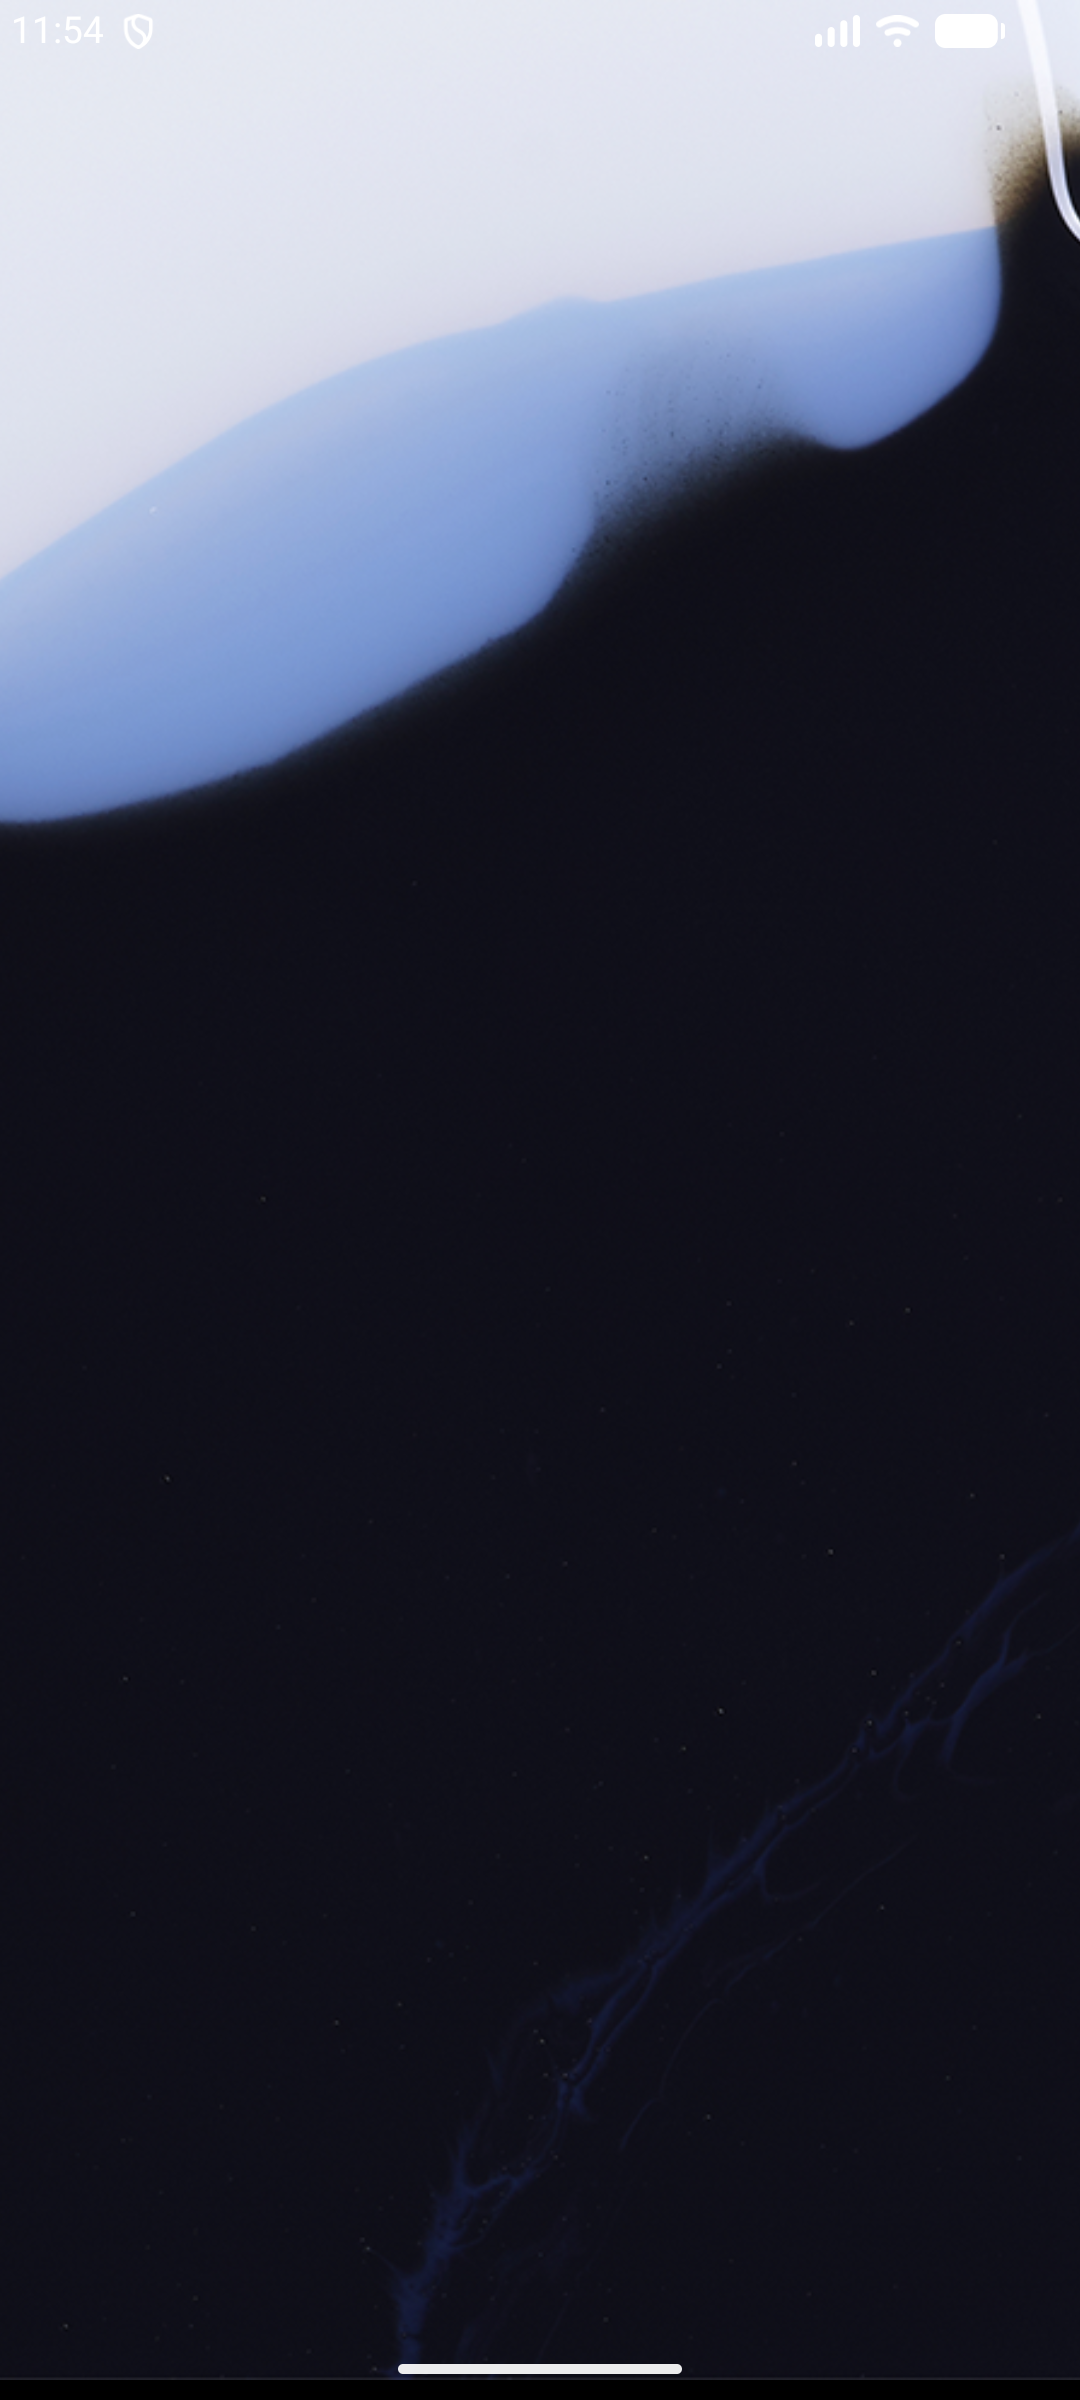
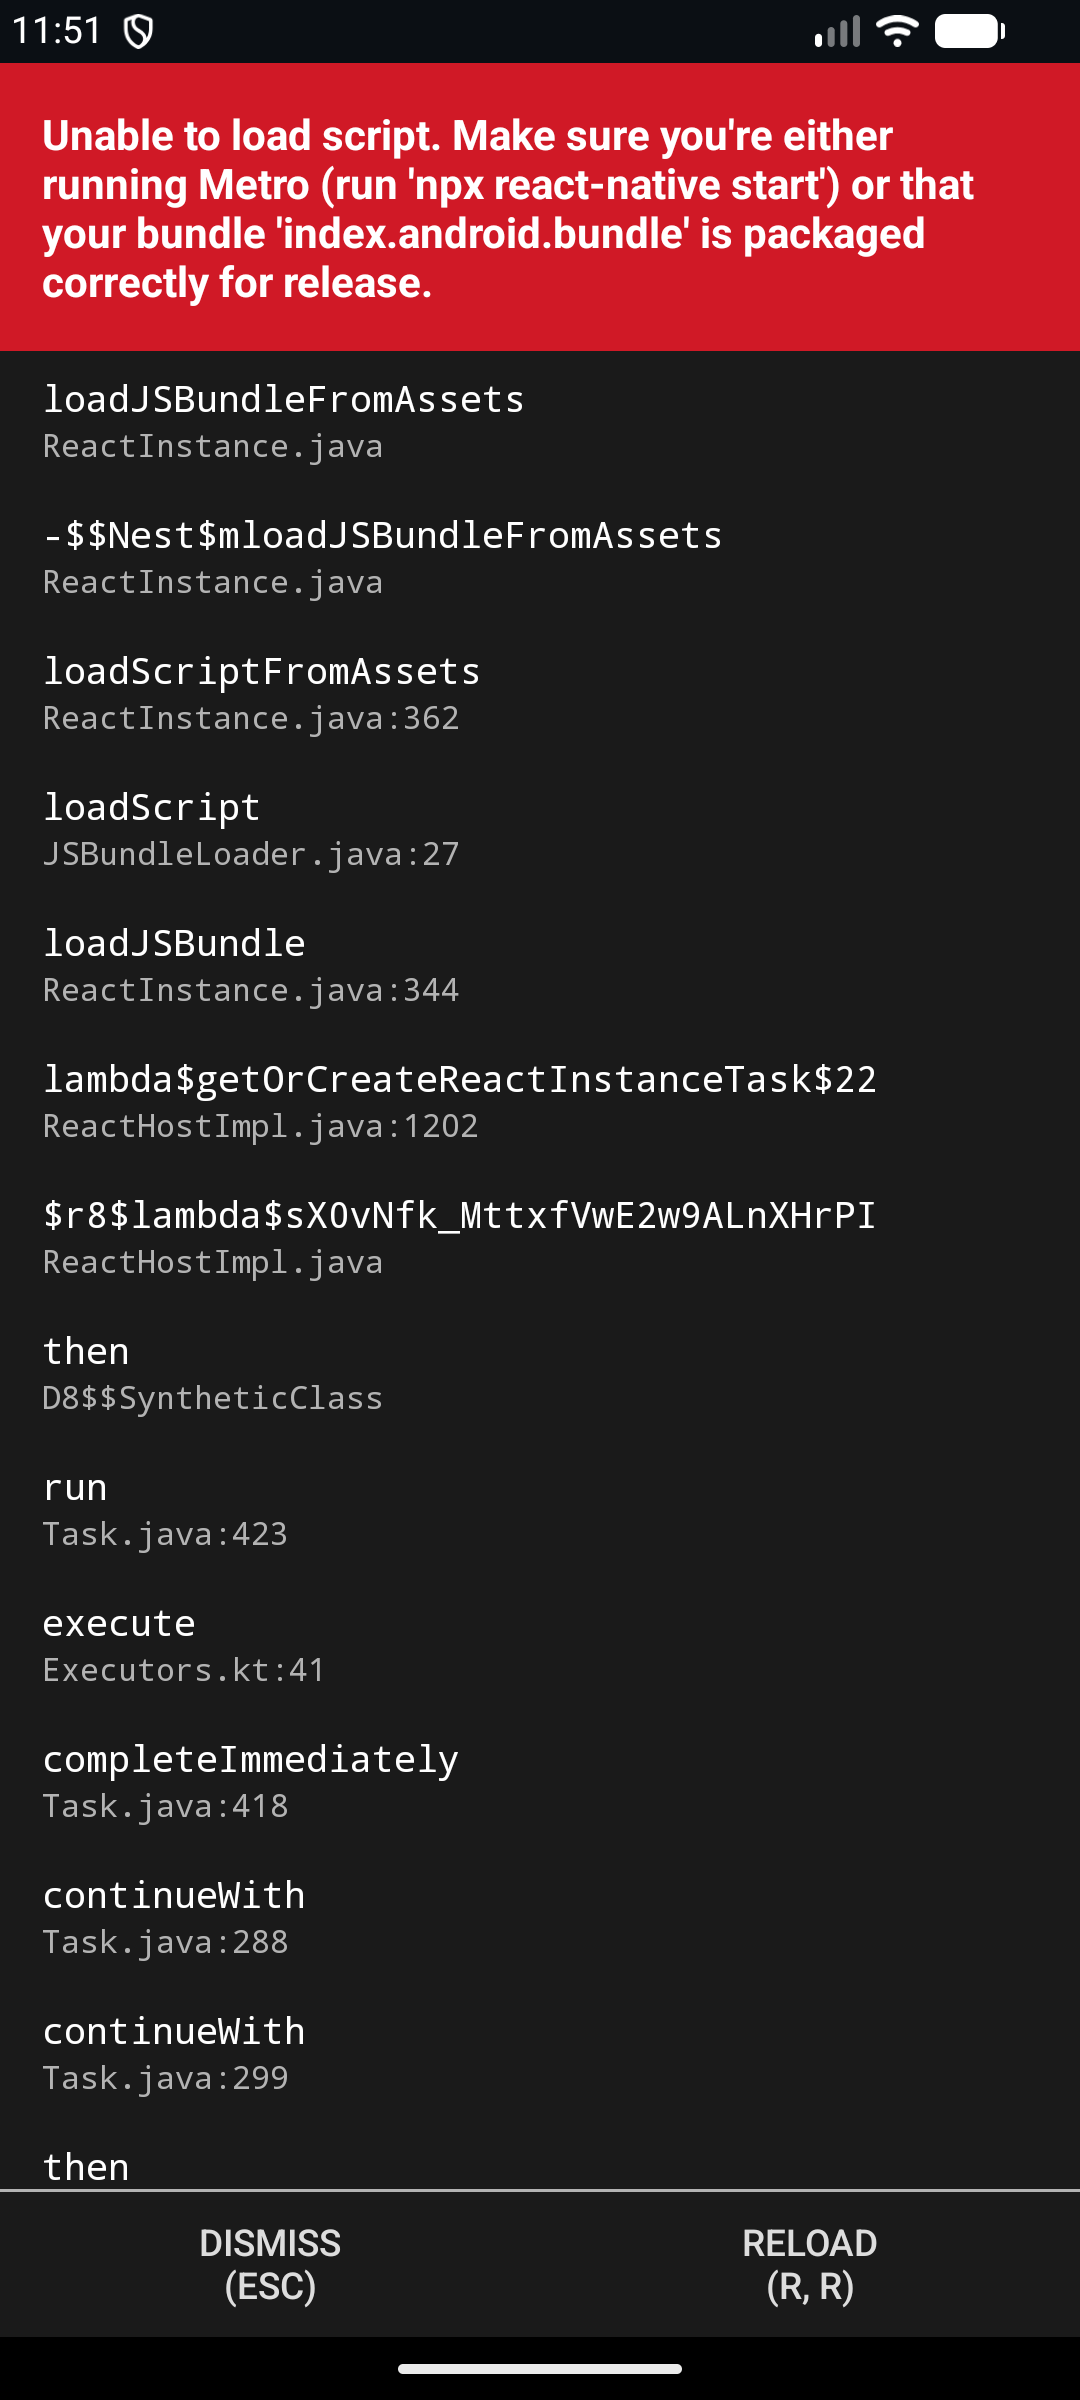
Remove ZEN push-notification relay, tidy presence protocol
Drops the akaoio/zen mobile push relay (unused, added complexity
without a working backend) and the zenPub field it threaded through
presence messages.

diff --git a/src/app/session.ts b/src/app/session.ts
@@ -78,9 +78,7 @@ export class Session {
   private fileStoreInstance: FileStore | null = null
   private nickname = ''
   private avatar = ''
-  private zenPub = ''
   private readonly peerAvatars = new Map<string, string>()
-  private readonly peerZenPubs = new Map<string, string>()
   private readonly events: SessionEvents
 
   private constructor(identity: Identity, storageDir: string, store: Corestore, profileStore: ProfileStore, events: SessionEvents) {
@@ -98,7 +96,6 @@ export class Session {
           this.peerAvatars.set(message.userId, message.avatar)
           void this.profileStore.setPeerAvatar(message.userId, message.avatar)
         }
-        if (message.zenPub) this.peerZenPubs.set(message.userId, message.zenPub)
         events.onPresence?.(message)
       },
       onReadReceipt: events.onReadReceipt,
@@ -193,7 +190,7 @@ export class Session {
       onConnection: (peer) => {
         this.store.replicate(peer.socket)
         this.peers.set(b4a.toString(peer.remotePublicKey, 'hex'), peer)
-        peer.rpc.sendPresence({ userId: this.identity.id, online: true, nickname: this.nickname, avatar: this.avatar, zenPub: this.zenPub || undefined })
+        peer.rpc.sendPresence({ userId: this.identity.id, online: true, nickname: this.nickname, avatar: this.avatar })
         for (const announce of this.directory.values()) peer.rpc.sendRoomAnnounce(announce)
         for (const room of this.rooms.values()) {
           this.requestWriteIfNeeded(room, peer)
@@ -300,18 +297,8 @@ export class Session {
 
   broadcastPresence(online: boolean): void {
     for (const peer of this.peers.values()) {
-      peer.rpc.sendPresence({ userId: this.identity.id, online, nickname: this.nickname, avatar: this.avatar, zenPub: this.zenPub || undefined })
+      peer.rpc.sendPresence({ userId: this.identity.id, online, nickname: this.nickname, avatar: this.avatar })
     }
-  }
-
-  /** Mobile-only: announces this device's ZEN pub key to connected peers (via presence) so they can wake it through the push-notification relay while it's offline. No-op on desktop. */
-  setZenPub(zenPub: string): void {
-    this.zenPub = zenPub
-    this.broadcastPresence(true)
-  }
-
-  getPeerZenPub(userId: string): string | undefined {
-    return this.peerZenPubs.get(userId)
   }
 
 

diff --git a/mobile/src/screens/RoomChatScreen.tsx b/mobile/src/screens/RoomChatScreen.tsx
@@ -15,7 +15,6 @@ import { useRoom } from '../hooks/useRoom'
 import { useCall } from '../hooks/useCall'
 import { downloadFile } from '../bare/room-proxy'
 import { listConnectedPeerIds } from '../bare/call-proxy'
-import { notifyOffline } from '../bare/zen-push'
 import type { ChatMessage } from '@core/rooms/room'
 import ChatBubble from '../components/ChatBubble'
 import MessageComposer from '../components/MessageComposer'
@@ -103,35 +102,16 @@ export default function RoomChatScreen({ route, navigation }: Props) {
     ? messages.filter((m) => m.body.toLowerCase().includes(searchQuery.toLowerCase()))
     : messages
 
-  // Best-effort: wakes room members who are offline on hyperswarm right now, via the ZEN relay
-  // (see zen-push.ts). Silently does nothing for members who never registered a ZEN pub.
-  const wakeOfflineMembers = useCallback(async () => {
-    if (!room || !session) return
-    try {
-      const [{ members }, connected] = await Promise.all([room.listMembers(), listConnectedPeerIds()])
-      const connectedSet = new Set(connected)
-      const offline = members.filter((m) => m.identityId !== identityId && !connectedSet.has(m.identityId))
-      await Promise.all(offline.map(async (m) => {
-        const zenPub = await session.getPeerZenPub(m.identityId)
-        if (zenPub) await notifyOffline(zenPub, roomId)
-      }))
-    } catch {
-      // Push wake-up is best-effort; message already sent over hyperswarm regardless.
-    }
-  }, [room, session, identityId, roomId])
-
   const handleSend = useCallback(async (text: string) => {
     await sendMessage(text, replyTo?.id)
     setReplyTo(null)
     setTimeout(() => flatListRef.current?.scrollToEnd({ animated: true }), 100)
-    void wakeOfflineMembers()
-  }, [sendMessage, replyTo, wakeOfflineMembers])
+  }, [sendMessage, replyTo])
 
   const handleAttach = useCallback(async (name: string, mimeType: string, base64: string, thumbnail?: string) => {
     await sendFile(name, mimeType, base64, thumbnail)
     setTimeout(() => flatListRef.current?.scrollToEnd({ animated: true }), 100)
-    void wakeOfflineMembers()
-  }, [sendFile, wakeOfflineMembers])
+  }, [sendFile])
 
   const handleFilePress = useCallback(async (message: ChatMessage) => {
     if (!message.file || downloadingId) return

diff --git a/src/network/encoding.ts b/src/network/encoding.ts
@@ -12,8 +12,6 @@ export interface PresenceMessage {
   online: boolean
   nickname: string
   avatar?: string
-  /** Mobile-only: this peer's ZEN pub key, so others can wake them via a push-notification relay while offline (see mobile/src/bare/zen-push.ts). Absent on desktop. */
-  zenPub?: string
 }
 
 export interface ReadReceiptMessage {
@@ -48,24 +46,20 @@ export const presenceEncoding: Encoding<PresenceMessage> = {
     cenc.bool.preencode(state, m.online)
     cenc.string.preencode(state, m.nickname)
     cenc.string.preencode(state, m.avatar ?? '')
-    cenc.string.preencode(state, m.zenPub ?? '')
   },
   encode(state, m) {
     cenc.string.encode(state, m.userId)
     cenc.bool.encode(state, m.online)
     cenc.string.encode(state, m.nickname)
     cenc.string.encode(state, m.avatar ?? '')
-    cenc.string.encode(state, m.zenPub ?? '')
   },
   decode(state) {
     const userId = cenc.string.decode(state)
     const online = cenc.bool.decode(state)
     const nickname = cenc.string.decode(state)
     let avatar = ''
-    let zenPub = ''
     try {
       avatar = cenc.string.decode(state)
-      zenPub = cenc.string.decode(state)
     } catch {
       // backwards compatibility if old peer decoded
     }
@@ -73,8 +67,7 @@ export const presenceEncoding: Encoding<PresenceMessage> = {
       userId,
       online,
       nickname,
-      avatar,
-      zenPub: zenPub || undefined
+      avatar
     }
   }
 }

diff --git a/mobile/src/hooks/useSession.tsx b/mobile/src/hooks/useSession.tsx
@@ -3,7 +3,6 @@ import { bareClient } from '../bare/client'
 import { SessionProxy, type RoomSummary } from '../bare/session-proxy'
 import type { Identity } from '../bare/identity-client'
 import type { ContactEntry } from '@core/app/session'
-import { registerPushToken } from '../bare/zen-push'
 
 interface SessionContextValue {
   session: SessionProxy | null
@@ -94,10 +93,6 @@ export function SessionProvider({ children }: Props) {
     setBookmarks(await s.listRoomSummaries())
     setContacts(info.contacts)
     setAvatars(new Map(info.peerAvatars))
-
-    // Best-effort: push notifications need an EAS project + granted permission.
-    // Silently skipped (see zen-push.ts) if either is missing — chat works regardless.
-    registerPushToken().then((zenPub) => { if (zenPub) void s.setZenPub(zenPub) }).catch(() => {})
   }, [])
 
   return (

diff --git a/mobile/worklet/entry.ts b/mobile/worklet/entry.ts
@@ -199,9 +199,6 @@ const methods: Record<string, (...args: any[]) => any> = {
 
   'session.listConnectedPeerIds': () => [...requireSession().peers.keys()],
 
-  'session.setZenPub': (zenPub: string) => requireSession().setZenPub(zenPub),
-  'session.getPeerZenPub': (userId: string) => requireSession().getPeerZenPub(userId) ?? null,
-
   'session.sendCallSignal': (targetUserId: string, message: CallSignalMessage) => {
     const peer = requireSession().peers.get(targetUserId)
     if (!peer) throw new Error('peer not connected')

diff --git a/mobile/babel.config.js b/mobile/babel.config.js
@@ -1,9 +1,7 @@
 module.exports = function (api) {
   api.cache(true)
   return {
-    // unstable_transformImportMeta: @akaoio/zen's browser bundle uses `import.meta`,
-    // which Hermes doesn't support natively — this transforms it away at build time.
-    presets: [['babel-preset-expo', { unstable_transformImportMeta: true }]],
+    presets: ['babel-preset-expo'],
     plugins: [
       [
         'module-resolver',

diff --git a/mobile/src/bare/session-proxy.ts b/mobile/src/bare/session-proxy.ts
@@ -144,12 +144,4 @@ export class SessionProxy {
   deleteRoom(roomId: string): Promise<void> {
     return bareClient.call('session.deleteRoom', roomId)
   }
-
-  setZenPub(zenPub: string): Promise<void> {
-    return bareClient.call('session.setZenPub', zenPub)
-  }
-
-  getPeerZenPub(userId: string): Promise<string | null> {
-    return bareClient.call('session.getPeerZenPub', userId)
-  }
 }

diff --git a/README.md b/README.md
@@ -77,7 +77,7 @@ cd mobile/android
 
 ## Known issues
 
-- **Push notifications are disabled.** `mobile/src/bare/zen-push.ts` is stubbed out — the [@akaoio/zen](https://github.com/akaoio/zen) client pulls in Node-only internals (`child_process`, `fs`, `import.meta`) that don't bundle for Hermes. Chat itself is unaffected (works over Hyperswarm regardless); this only means no wake-on-push while the app is backgrounded/killed.
+- **Push notifications are not configured.** Chat works in real-time over Hyperswarm while the app is running.
 - Release APK is unsigned beyond the RN debug keystore — fine for beta distribution, not for a Play Store submission.
 
 ## Testing
